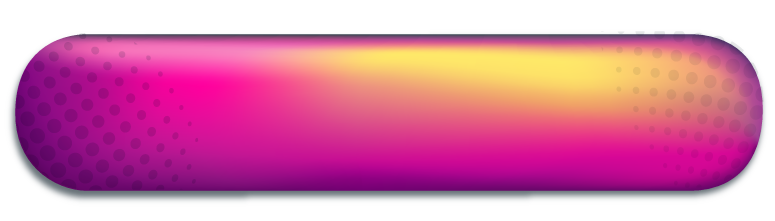
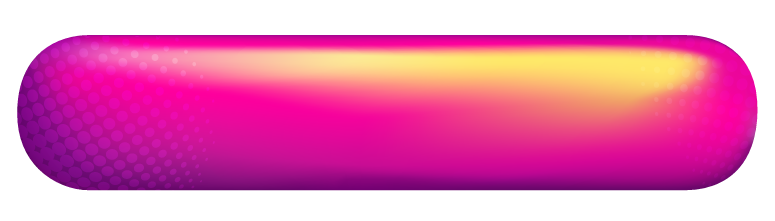
úprava header, navigace

diff --git a/scss/sections/_header.scss b/scss/sections/_header.scss
@@ -4,7 +4,7 @@
 
 .header {
   position: relative;
-  height: 90px;
+  height: 70px;
   z-index: 10;
   &:has(.menu_button_checkbox:checked) {
     .navigation_menu {
@@ -18,15 +18,12 @@
 .navigation_container {
   height: 100%;
   display: flex;
-  align-items: center;
+  align-items: end;
   justify-content: space-around;
 }
 
-.logo {
-  margin: 17px 0;
-  img {
-    height: 32px;
-  }
+.logo img {
+  height: 32px;
 }
 
 .menu_button {
@@ -37,26 +34,6 @@
   box-shadow: 0px 0px 1px black;
   padding: 5px;
 }
-
-// .socials_list {
-//   display: flex;
-// }
-
-// .search-wrapper {
-//   position: relative;
-
-//   i {
-//     position: absolute;
-//     right: 12px;
-//     top: 50%;
-//     transform: translateY(-50%);
-//     pointer-events: none;
-//   }
-// }
-
-// input[type="search"] {
-//   padding-right: 2.5rem;
-// }
 
 .menu_button_checkbox {
   position: absolute;
@@ -104,10 +81,6 @@
 }
 
 @media (min-width: b.$tabletBreakPoint) {
-  .navigation_container {
-    display: flex;
-  }
-
   .menu_button {
     display: none;
   }
@@ -128,16 +101,15 @@
       li {
         margin: 0;
         padding: 0 20px;
+        margin-bottom: 8px;
         a {
           color: white;
-          padding: 5px 0;
         }
       }
     }
   }
 
   .logo {
-    margin-bottom: 20px;
     padding: 0 10px;
     img {
       height: 36px;

diff --git a/scss/sections/_hero.scss b/scss/sections/_hero.scss
@@ -4,7 +4,7 @@
 @use "../variables/hero_scale" as s;
 
 .hero {
-  min-height: calc(100vh - 90px);
+  min-height: calc(100vh - 70px);
   display: flex;
   align-items: center;
   justify-content: center;
@@ -82,9 +82,9 @@ h1 {
   &::before {
     content: "";
     position: absolute;
-    inset: -5px;
+    inset: 0px;
     background: url("../assets/pictures/light.png") center / contain no-repeat;
-    opacity: 0.3;
+    opacity: 0.7;
     z-index: -2;
   }
 
@@ -143,6 +143,7 @@ h1 {
     inset: 0;
     background: url("/assets/pictures/main_button.png") center / 100% no-repeat;
     z-index: -1;
+    filter: drop-shadow(-3px 3px 1px c.$DarkShadow);
   }
 }
 

diff --git a/scss/variables/_socials.scss b/scss/variables/_socials.scss
@@ -1,0 +1,19 @@
+// .socials_list {
+//   display: flex;
+// }
+
+// .search-wrapper {
+//   position: relative;
+
+//   i {
+//     position: absolute;
+//     right: 12px;
+//     top: 50%;
+//     transform: translateY(-50%);
+//     pointer-events: none;
+//   }
+// }
+
+// input[type="search"] {
+//   padding-right: 2.5rem;
+// }

diff --git a/scss/variables/_colors.scss b/scss/variables/_colors.scss
@@ -1,4 +1,4 @@
 $SmallTextColor: white;
 $DecorationColor: rgb(239, 0, 131);
-$DarkShadow: rgba(25, 46, 60, 0.4);
+$DarkShadow: rgba(25, 46, 60, 0.3);
 $TextShadow: rgba(0, 0, 0, 0.7);
